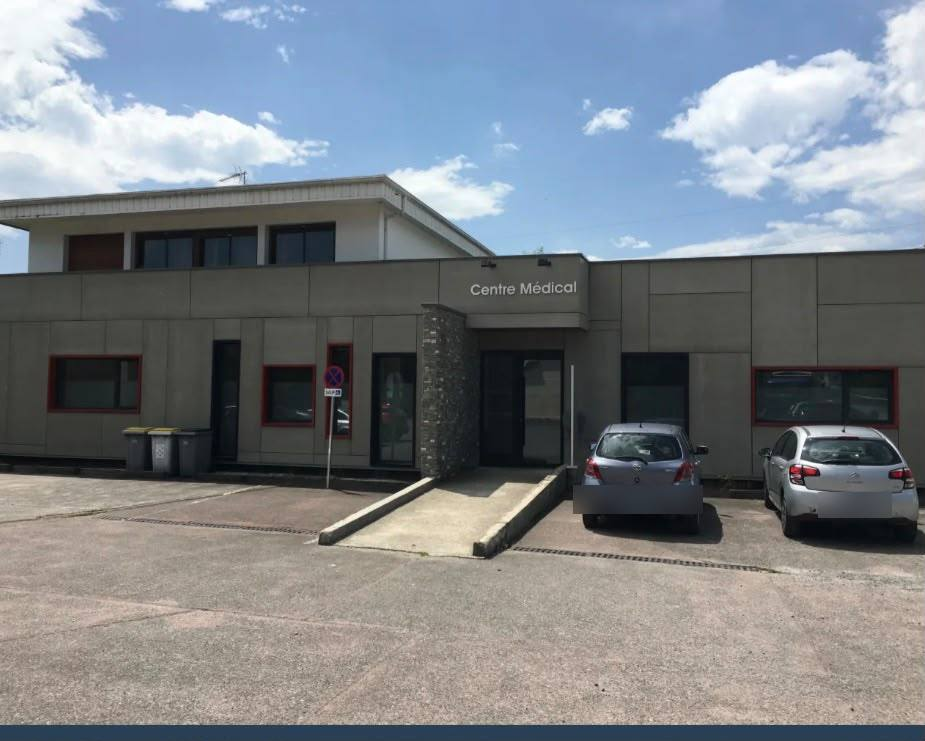
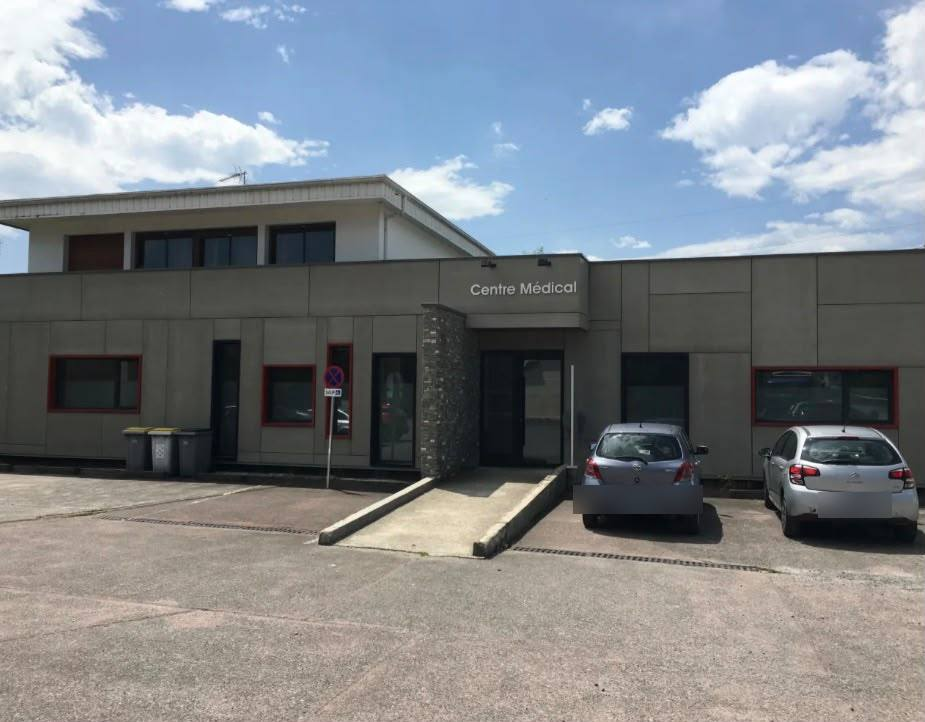
Corrections

diff --git a/index.html b/index.html
@@ -3,7 +3,7 @@
 <head>
 <meta charset="utf-8">
 <meta name="viewport" content="width=device-width, initial-scale=1, viewport-fit=cover">
-<title>Cabinet de podologie de Gelos et Aressy</title>
+<title>S. Jouanlong Bernadou / S. Rippstein / L. Bricaud / A. Canton – Pédicures-podologues Gelos et Aressy</title>
 <meta name="description" content="Pédicures-podologues à Gelos et Aressy : soins de pédicurie au cabinet et à domicile, semelles orthopédiques, orthonyxie, orthoplastie, K-Laser.">
 <link rel="preconnect" href="https://fonts.googleapis.com">
 <link rel="preconnect" href="https://fonts.gstatic.com" crossorigin>
@@ -38,6 +38,7 @@ header .btn{padding:.55rem 1rem;white-space:nowrap}
 @media (max-width:760px){nav{display:none}}
 .hero .wrap{display:grid;gap:2.5rem;align-items:center}
 @media (min-width:860px){.hero .wrap{grid-template-columns:1.1fr .9fr}}
+.eyebrow{font:600 .9rem Figtree,sans-serif;letter-spacing:.06em;text-transform:uppercase;color:var(--accent);margin:0 0 .8rem}
 .hero p.lead{font-size:1.2rem;color:var(--muted)}
 .hero .actions{display:flex;flex-wrap:wrap;gap:.8rem;margin-top:1.5rem}
 .arch{border-radius:999px 999px 18px 18px;overflow:hidden;background:var(--oak)}
@@ -64,12 +65,13 @@ details .tag{display:inline-block;margin:0 0 1rem;color:var(--oak);font-weight:6
 .lieu .pics img:first-child{grid-column:1/-1;aspect-ratio:16/10}
 .lieu .txt{padding:1.4rem 1.4rem 1.6rem}
 .lieu address{font-style:normal;color:var(--muted);margin-bottom:1rem}
-.equipe .wrap{display:grid;gap:2.5rem;align-items:center}
-@media (min-width:860px){.equipe .wrap{grid-template-columns:.8fr 1.2fr}}
-.equipe .arch{max-width:380px}
-.equipe .arch img{aspect-ratio:3/4}
-.noms{list-style:none;padding:0;margin:1.2rem 0;display:grid;gap:.5rem}
-.noms li{padding:.7rem 1rem;border-left:4px solid var(--oak);background:var(--surface)}
+.noms{list-style:none;padding:0;margin:1.8rem 0 0;display:grid;gap:1rem}
+@media (min-width:640px){.noms{grid-template-columns:repeat(2,1fr)}}
+@media (min-width:980px){.noms{grid-template-columns:repeat(4,1fr)}}
+.noms li{background:var(--surface);border:1px solid var(--line);border-radius:18px;padding:1.4rem;display:grid;gap:.2rem;justify-items:start}
+.noms b{font:500 1.15rem "Bricolage Grotesque",sans-serif}
+.noms small{color:var(--muted)}
+.ini{width:56px;height:56px;border-radius:999px 999px 10px 10px;background:var(--navy);color:#fff;display:grid;place-items:center;font:700 1.1rem "Bricolage Grotesque",sans-serif;margin-bottom:.6rem}
 .contact{background:var(--surface);border-top:1px solid var(--line)}
 .cgrid{display:grid;gap:1.5rem;margin-top:1.5rem}
 @media (min-width:760px){.cgrid{grid-template-columns:repeat(3,1fr)}}
@@ -93,6 +95,7 @@ footer{padding:1.8rem 0 2.5rem;color:var(--muted);font-size:.95rem}
 <section class="hero">
 <div class="wrap">
 <div>
+<p class="eyebrow">S. Jouanlong Bernadou · S. Rippstein · L. Bricaud · A. Canton</p>
 <h1>Des pieds en forme pour avancer sans douleur</h1>
 <p class="lead">Quatre pédicures-podologues vous reçoivent à Gelos et à Aressy, au cabinet ou à votre domicile. Soins des pieds, semelles orthopédiques, orthonyxie, orthoplastie et K-Laser.</p>
 <div class="actions"><a class="btn" href="tel:+33559069202">Appeler le cabinet</a><a class="btn ghost" href="#soins">Découvrir nos soins</a></div>
@@ -126,13 +129,13 @@ footer{padding:1.8rem 0 2.5rem;color:var(--muted);font-size:.95rem}
 <h2>Deux cabinets près de chez vous</h2>
 <div class="lieux">
 <article class="lieu">
-<div class="pics"><img src="images/gelos-facade.jpg" alt="Entrée du cabinet de Gelos"><img src="images/gelos-posturologie.jpg" alt="Espace posturologie et sport à Gelos"><img src="images/gelos-bureau.jpg" alt="Bureau de consultation à Gelos"></div>
+<div class="pics"><img src="images/gelos-facade.jpg" alt="Entrée du cabinet de Gelos"><img src="images/gelos-posturologie.jpg" alt="Salle d'analyse de la marche à Gelos"><img src="images/gelos-bureau.jpg" alt="Bureau de consultation à Gelos"></div>
 <div class="txt"><h3>Cabinet de Gelos</h3>
 <address>15 rue Joseph Lacaze<br>Domaine La Chambrière<br>64110 Gelos</address>
 <a class="btn ghost" href="https://www.google.com/maps/search/?api=1&amp;query=15+rue+Joseph+Lacaze+64110+Gelos">Voir sur la carte</a></div>
 </article>
 <article class="lieu">
-<div class="pics"><img src="images/aressy-facade.jpg" alt="Bâtiment du centre médical d'Aressy"><img src="images/aressy-soins.jpg" alt="Salle de soins à Aressy"><img src="images/aressy-bureau.jpg" alt="Bureau de consultation à Aressy"></div>
+<div class="pics"><img src="images/aressy-facade.jpg" alt="Bâtiment du centre médical d'Aressy"><img src="images/aressy-soins.jpg" alt="Salle de soins du cabinet d'Aressy"><img src="images/aressy-attente.jpg" alt="Salle d'attente du cabinet d'Aressy"></div>
 <div class="txt"><h3>Cabinet d'Aressy</h3>
 <address>24 rue Matachot<br>Aressy</address>
 <a class="btn ghost" href="https://www.google.com/maps/search/?api=1&amp;query=24+rue+Matachot+Aressy">Voir sur la carte</a></div>
@@ -143,12 +146,14 @@ footer{padding:1.8rem 0 2.5rem;color:var(--muted);font-size:.95rem}
 
 <section class="equipe" id="equipe">
 <div class="wrap">
-<div class="arch"><img src="images/equipe.jpg" alt="L'équipe du cabinet : les podologues et la secrétaire"></div>
-<div>
 <h2>L'équipe</h2>
 <p>Quatre pédicures-podologues se partagent les deux cabinets, avec le soutien d'une secrétaire qui répond à vos appels.</p>
-<ul class="noms"><li>Stéphanie Jouanlong-Bernadou</li><li>Séverine Rippstein</li><li>Louis Bricaud</li><li>Axel Cabton</li></ul>
-</div>
+<ul class="noms">
+<li><span class="ini" aria-hidden="true">SJ</span><b>Stéphanie Jouanlong Bernadou</b><small>Pédicure-podologue</small></li>
+<li><span class="ini" aria-hidden="true">SR</span><b>Séverine Rippstein</b><small>Pédicure-podologue</small></li>
+<li><span class="ini" aria-hidden="true">LB</span><b>Louis Bricaud</b><small>Pédicure-podologue</small></li>
+<li><span class="ini" aria-hidden="true">AC</span><b>Axel Canton</b><small>Pédicure-podologue</small></li>
+</ul>
 </div>
 </section>
 
@@ -166,6 +171,6 @@ footer{padding:1.8rem 0 2.5rem;color:var(--muted);font-size:.95rem}
 </section>
 </main>
 
-<footer><div class="wrap">© 2026 Cabinet de podologie de Gelos et Aressy · Mentions légales à compléter</div></footer>
+<footer><div class="wrap">© 2026 S. Jouanlong Bernadou · S. Rippstein · L. Bricaud · A. Canton · Mentions légales à compléter</div></footer>
 </body>
 </html>

diff --git a/README.md b/README.md
@@ -14,7 +14,7 @@ Site statique : `index.html` + dossier `images/`. Aucune installation nécessair
    git push -u origin main
    ```
 3. GitHub : Settings > Pages > Source : branche `main`, dossier `/ (root)`.
-4. Le site apparaît sur `https://jrippy.github.io/site-podologie-gelos-aressy/`.
+4. Le site apparaît sur `https://TON-COMPTE.github.io/podologie-gelos-aressy/`.
 
 ## Nom de domaine
 Ajouter un fichier `CNAME` contenant le domaine (ex. `podologie-gelos.fr`), puis configurer le DNS chez le registrar.
